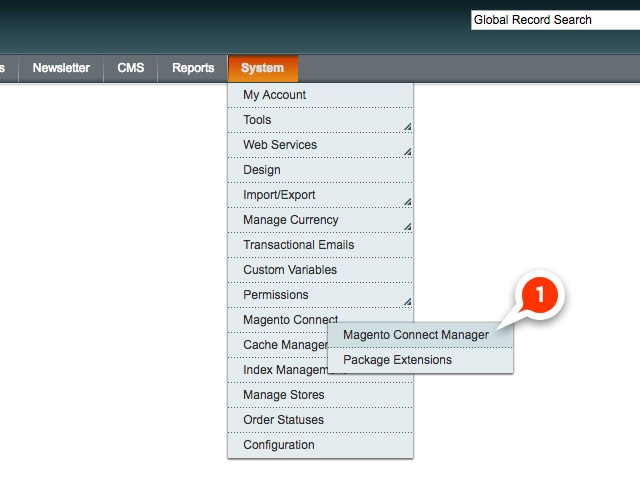
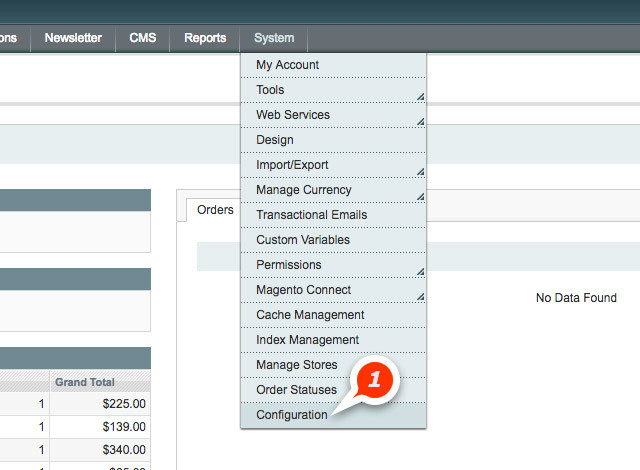
[PR-14864] Update Magento Integration docs (#236)
* PR-14864: Update doc for Magento 2.4 extensions

* PR-14864: Update magento 1 doc

* PR-14864: Rename images

* PR-14864: Fix url for marketplace-credentials docs

diff --git a/source/integration/magento/magento2.rst b/source/integration/magento/magento2.rst
@@ -11,7 +11,7 @@ Magento 2.x Integration
 
    To get started, you must have an account created with Talkable, and a Magento Marketplace account.
    If you do not have a Magento Marketplace account configured, follow
-   `these steps <http://docs.magento.com/marketplace/user_guide/quick-tour/install-extension.html>`_
+   `these steps <https://docs.magento.com/user-guide/magento/magento-marketplace.html#marketplace-credentials>`_
    to connect one to your Magento store.
 
 The `Magento 2 Integration Extension`_ is available to download in the Magento Marketplace.
@@ -26,35 +26,7 @@ Installation
 
    .. image:: /_static/img/magento2/install0.jpg
 
-2. Navigate to **System** → **Web Setup Wizard** in your Magento store admin panel.
-
-   .. image:: /_static/img/magento2/install1.jpg
-
-3. Choose **Extension Manager**.
-
-   .. image:: /_static/img/magento2/install2.jpg
-
-4. The Extension Manager will indicate that you have extensions ready to be installed.
-   Click the **Review and Install** button.
-
-   .. image:: /_static/img/magento2/install3.jpg
-
-5. Click the **Install** button at the top of the list to install all listed extensions.
-   To just install Talkable, find the extension in the list and click **Install**.
-
-   .. image:: /_static/img/magento2/install4.jpg
-
-6. Follow the steps to complete the Talkable extension installation.
-
-   .. image:: /_static/img/magento2/install5.jpg
-
-.. warning::
-
-   Take note of the `Magento 2.x system requirements`_ regarding extension installation.
-   Magento recommends that you have 2GB of RAM allocated to PHP for upgrading and installing
-   extensions from the Marketplace.
-
-   Refer to `Troubleshooting`_ section of this guide if you encounter problems during this step.
+2. Follow `Magento Extensions Guide`_ for installation.
 
 |page_break|
 
@@ -171,69 +143,6 @@ Default values correspond to default placements in Talkable.
 
 .. image:: /_static/img/magento2/configure6.jpg
 
-|page_break|
-
-Troubleshooting
----------------
-
-This section describes the solutions to some common issues encountered during installation
-that do not provide helpful error messages or a clear path forward.
-If you encounter an issue that isn't described here, please refer to the
-Magento `troubleshooting suggestions`_ for the Component Manager and other Magento documentation.
-
-|nbsp|
-
-* **Check Component Dependency** step fails without an error message
-
-  .. image:: /_static/img/magento2/troubleshooting1.jpg
-
-  The Check Component Dependency script has likely run out of memory.
-  Magento 2.x requires at least 756MB of RAM allocated to PHP.
-  However, to use Web Setup Wizard for system upgrades and extension installation,
-  Magento recommends allocating 2GB of memory to PHP. Please refer to the `Required PHP Settings`_
-  guide and update your configuration.
-
-  |nbsp|
-
-* **Create Backup** step fails without error message
-
-  .. image:: /_static/img/magento2/troubleshooting2.jpg
-
-  Backup creation in Component Manager is performed as a single web request.
-  This request can take a long time, especially if you have chosen all three
-  backup options (*Code*, *Media*, and *Database*). If the backup request takes
-  longer to complete than allowed by your server configuration, the server will
-  terminate the request, resulting in backup failure.
-
-  |page_break|
-
-  Possible solutions:
-
-  1. Choose to only back up *Code* at the Create Backup step. If you have your own backup procedure
-     set up, we recommend performing it prior to installing the extension.
-
-     .. image:: /_static/img/magento2/troubleshooting3.jpg
-
-  2. Configure your server to allow long-running requests.
-
-    * In PHP configuration, increase ``max_execution_time`` to 300-600 seconds.
-      This can be done either in your ``php.ini`` file or in the ``.htaccess``
-      file in your Magento root folder.
-
-    * For Apache 2, increase ``TimeOut`` to 300-600 seconds in your server configuration.
-
-    * For nginx + php-fpm, set the following directives in your server configuration::
-
-        client_header_timeout 300s;
-        client_body_timeout 300s;
-        fastcgi_read_timeout 300s;
-
-      .. warning::
-
-         Increased request timeout settings can negatively affect server performance.
-
 .. _Talkable extension:
 .. _Magento 2 Integration Extension: https://marketplace.magento.com/talkable-magento2-integration.html
-.. _Magento 2.X system requirements: http://devdocs.magento.com/guides/v2.0/install-gde/system-requirements-tech.html
-.. _Required PHP Settings: http://devdocs.magento.com/guides/v2.0/install-gde/prereq/php-settings.html
-.. _troubleshooting suggestions: http://devdocs.magento.com/guides/v2.0/comp-mgr/trouble/tshoot.html
+.. _Magento Extensions Guide: https://devdocs.magento.com/extensions/install/

diff --git a/source/integration/magento/magento1.rst b/source/integration/magento/magento1.rst
@@ -6,6 +6,9 @@
 
 Magento 1.x Integration
 =======================
+.. warning::
+
+   Magento 1 is not supported from July 1st, 2020.
 
 .. note::
 
@@ -14,49 +17,36 @@ Magento 1.x Integration
 A `Magento Talkable extension`_ is available for easy
 integration. The extension currently supports Magento versions 1.5+
 
-1. Log into your Magento Admin Panel (usually located at
-   `http://your-site.com/index.php/admin`). We will install the Talkable extension
-   using Magento Connect Manager. Go to
-   **System** → **Magento Connect** → **Magento Connect Manager**.
-   You may be required to log in again:
+1. Since Magento 1 reached EOL and Magento 1 extensions were removed from the
+   Magento Marketplace, you’re only able to download them manually via SSH / FTP.
 
-   .. image:: /_static/img/magento/magento-flow-1.jpg
-
-2. Copy the extension key: **http://connect20.magentocommerce.com/community/talkable** →
-   then paste it into an extension key input field (2) and click **Install** (3).
-   In the table below you should see a status "Ready to install", hit **Proceed** (4):
-
-   .. image:: /_static/img/magento/magento-flow-2.jpg
-
-   You should see the console window indicate successful installation.
-
-3. After the extension has been installed, you must enable the extension and set
+2. After the extension has been installed, you must enable the extension and set
    your Talkable Site ID. Click the **Return to Admin** link and navigate to
    **System** → **Configuration**:
 
-   .. image:: /_static/img/magento/magento-flow-3.jpg
+   .. image:: /_static/img/magento/magento-flow-1.jpg
 
    Note: If you have more than one store, set the **Current Configuration Scope**
    on the top left to the store you want to enable Talkable on. Note this must be
    a Magento "Website", not a "Store view".
 
-4. In the left sidebar navigation click on **Talkable** → **Extension Options** tab:
+3. In the left sidebar navigation click on **Talkable** → **Extension Options** tab:
 
-   .. image:: /_static/img/magento/magento-flow-4.jpg
+   .. image:: /_static/img/magento/magento-flow-2.jpg
 
-5. Then, enter your Talkable Site ID. You can copy it from the integration page
+4. Then, enter your Talkable Site ID. You can copy it from the integration page
    inside Talkable, or on your Talkable Site Dashboard:
 
-   .. image:: /_static/img/magento/magento-flow-5.jpg
+   .. image:: /_static/img/magento/magento-flow-3.jpg
 
    Note: If you see an error opening Talkable extension settings, please
    re-login to Admin Panel and try again.
 
    Click **Save Config** to save your changes.
 
-6. Go back to Talkable Integration page and click "Verify Integration" button:
+5. Go back to Talkable Integration page and click "Verify Integration" button:
 
-   .. image:: /_static/img/magento/magento-flow-6.jpg
+   .. image:: /_static/img/magento/magento-flow-4.jpg
 
 .. raw:: html
 
